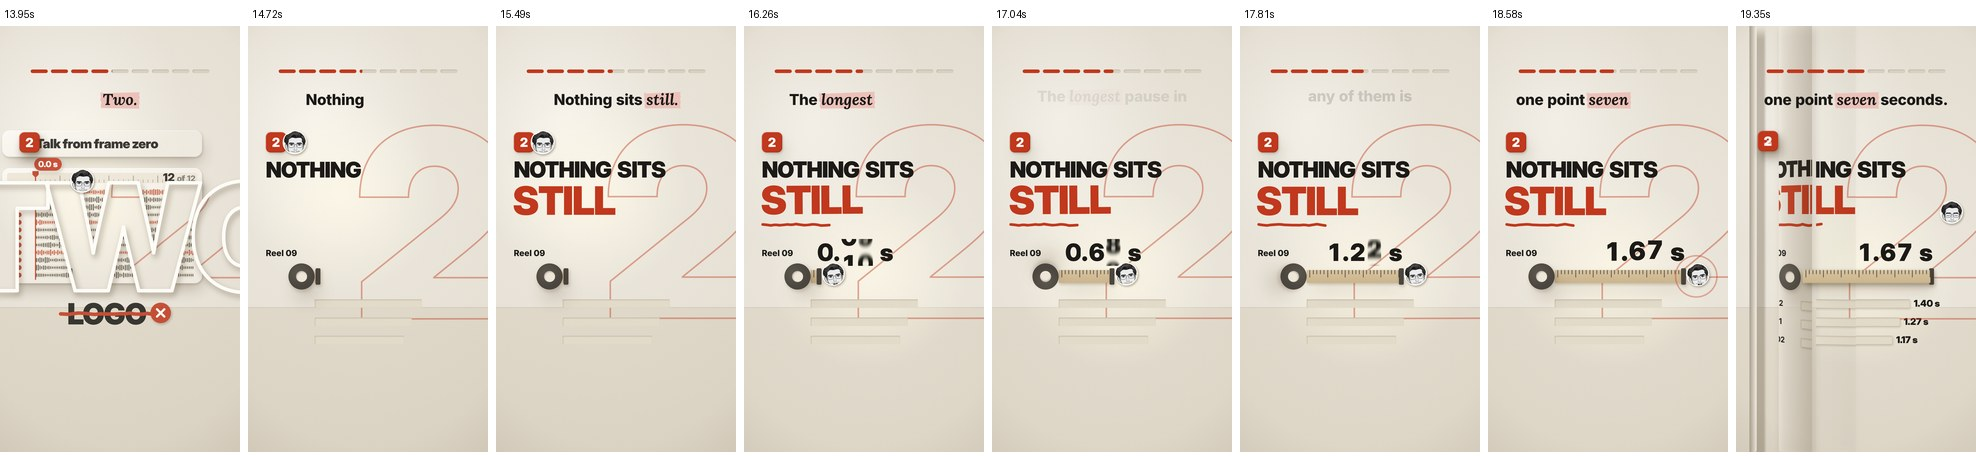
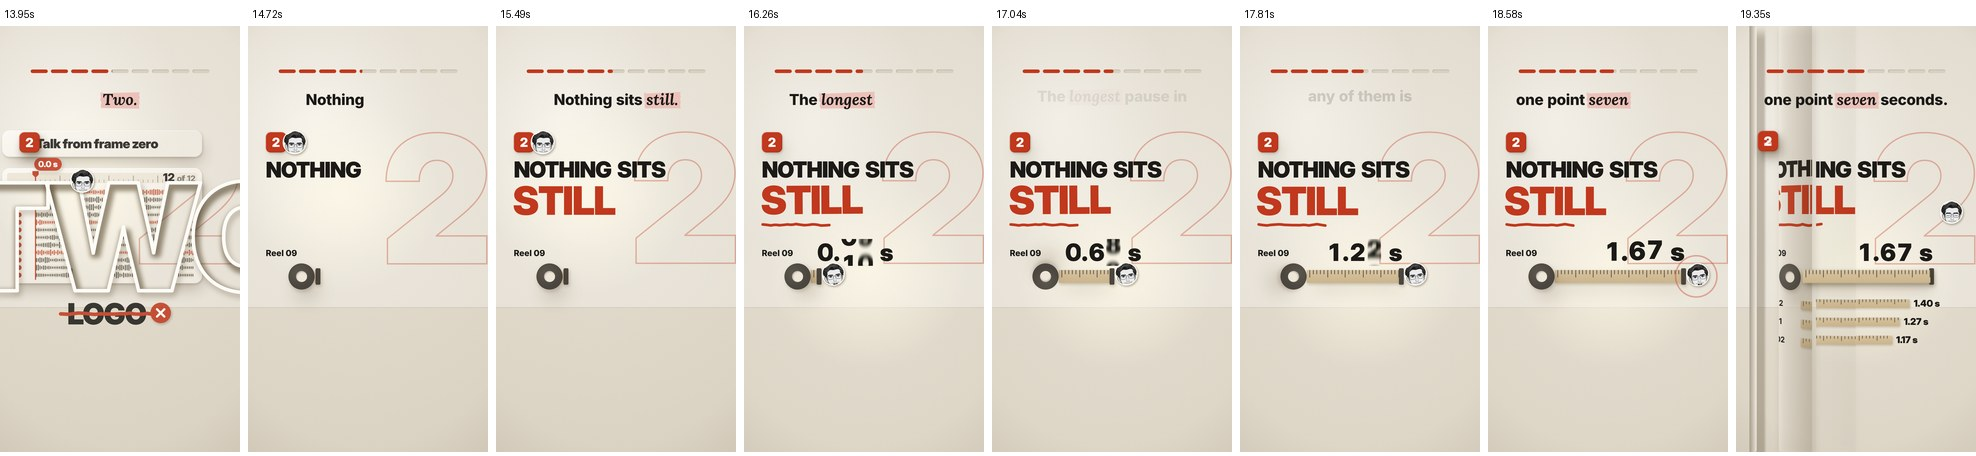
Motion pack: no container waits empty (tape grooves removed, the comment field pops in when typed)
Claude-Session: https://claude.ai/code/session_01Eh7A8fmmnjdrmEmc7wVGjB

diff --git a/studio/packs/motion/scenes-b.js b/studio/packs/motion/scenes-b.js
@@ -56,11 +56,9 @@ export const SCENES = {
       cam.append(l, t2, v);
       return { els: [l, t2, v], path: t2.querySelector('path'), w: len(b.v), seed: 50 + i };
     });
-    // behind everything: the chapter number drawn as a giant pencil outline that boils on twos,
-    // and the empty grooves the shorter tapes will drop into (the scene is never an empty stage)
+    // behind everything: the chapter number drawn as a giant pencil outline that boils on twos
     const big = h('div', abs(p.bigX || 600, p.bigY || 380, 600, 900, `font:900 ${p.bigSize || 800}px/1 ${DISPLAY};color:transparent;-webkit-text-stroke:6px rgba(194,56,29,.34);white-space:nowrap;pointer-events:none`), String(p.n || 2));
-    const grooves = bars.slice(1).map((b, i) => h('div', abs(TX, HY + 132 + i * 82, len(b.v), 38, 'border-radius:4px;background:#e4dccb;box-shadow:inset 2px 3px 5px rgba(70,52,25,.22)')));
-    cam.prepend(big, ...grooves);              // at the back, under the tapes that drop into them
+    cam.prepend(big);
     const ul = pencilLine(300, { seed: 44, width: 12 });
     ul.el.style.left = '84px'; ul.el.style.top = `${(p.headY || 478) + 404}px`;
     cam.append(tl, line1, last, ul.el, lab, tape, tab, caseEl, nbox);
@@ -77,7 +75,6 @@ export const SCENES = {
         tl.style.transform = `scale(${(1 + 0.15 * pulse(t, Math.max(twoAt, fr(12)), fr(2), fr(6))).toFixed(4)})`;
         const bj = jit[(b + 1) % 3];
         big.style.transform = `translate(${(bj[0] * 0.6).toFixed(1)}px,${(bj[1] * 0.6).toFixed(1)}px) rotate(${(bj[2] * 0.5).toFixed(2)}deg)`;
-        grooves.forEach((g, i) => { g.style.opacity = outCubic(prog(t, fr(2 + 2 * i), fr(8))).toFixed(3); });
         w1.forEach((el, i) => { const s = slam(t, wAt[i], { from: 1.7, crash: 2, settle: 5 }); el.style.opacity = s.o; el.style.transform = `scale(${s.s.toFixed(4)})`; });
         const s = slam(t, stillAt, { from: 1.5, crash: 3, settle: 6 }), j = jit[b], boil = t > slamHit(stillAt) + fr(6);
         last.style.opacity = s.o;
@@ -287,6 +284,9 @@ export const SCENES = {
           built[0].c.style.transform += ` scale(${(1 + 0.03 * outCubic(prog(t, winAt, fr(8)))).toFixed(4)})`;
         }
         ty.update(t - typeAt);
+        const fp = prog(t, typeAt - fr(4), fr(5));          // the field appears only when it is about to be typed in
+        field.style.opacity = clamp(fp * 3).toFixed(3);
+        field.style.transform = `scale(${fp <= 0 ? 0.6 : outBack(fp, 2).toFixed(4)})`;
         const on = t >= followAt;
         fb.textContent = on ? 'Following' : 'Follow';
         fb.style.background = on ? 'transparent' : 'var(--accent)'; fb.style.color = on ? P.ink : '#fffdf8';

diff --git a/collection/recipes/pack-motion.md b/collection/recipes/pack-motion.md
@@ -21,9 +21,9 @@ The one idea under all of it: **carry, not replace.** At every scene change some
 | G06 | `countSlam` (hero) | The giant counter arrives running (carried in digit by digit), pulls back and lands on the claim with a bounce through its digits while the camera pushes in and three layers of film strip whip past and slow down; then the word lands with a tracking settle and its full stop pops in. | Digit cards 158 x 228. 3-frame pull-back (-5%), +7% overshoot over 8 frames, each digit's bounce 12% later. Push-in +8% over 12 frames (outCubic) plus 1% drift. Strips: far 64 px (32%, 1.6 px blur, 70 px/s), mid 96 px (62%, -150 px/s), near 196 px (330 px/s, blurred); landing kick x7 decaying e^(-3.2 t); depth scale 0.3 + 1.6 x depth. Word: tracking 0.38 em to -0.02 em and scale 1.18 to 1 in 9 frames; the 36 px dot 5 frames later (outBack 3, 6 frames). | The one hero number of a reel. | M01, M02, M10, Disney multiplane, Gurney atmospheric perspective | `g06-count-slam.jpg` |
 | G07 | `chapterList` | The number arrives as a badge (the dot of the scene before), the heading closes up with a tracking settle, rows are uncovered left to right, the cursor taps the first, which is carried into the next scene as its header while the others drop away. | Badge 156 px; number slam from 2.4x. Rows 880 x 150, 26 px apart, mask reveal 8 frames each, 3 frames apart, sliding 36 px; tiles pop 3 frames after their row. Tap: 6 px outline over 6 frames, 3% press. Exit: rows fall 320 px with a 6-7 degree turn, staggered. | "Here are N things" before a numbered list. | L06 step row, S01, P03 numbered walk-through | `g07-chapter-list.jpg` |
 | G08 | `trackTimeline` | A rebuilt editor timeline, one track per reel: the dots light as "twelve" is spoken, every waveform draws from frame 0 on the beat, the tally counts to the claim, the camera pushes in on the playhead; then the rejected openings slam in below and are struck, the second swapped into the first one's place. | Card 900 x 520, 12 tracks of 26 px on a 34 px pitch. Dots 1 frame apart; waveforms 2 frames apart, 12 frames each; tally pop 18%; push-in 8% over 12 frames, out over 11. Rejected words slam from 1.6x; pencil strike 16 px in 6 frames on the next word; cross 4 frames later; the first lifts 120 px as the second takes its place. | "All of them do X from the start; none do Y." | U14 audio timeline, U22 live counter, M07 rejected card, M10 | `g08-track-timeline.jpg` |
-| G09 | `tapeMeasure` | A number that counts and becomes a bar: the heading lands word by word and its last word cannot sit still; the cursor pulls a paper tape from its case while the number riding its end counts at a steady speed and lands; the other measurements drop in as shorter tapes. Drawn on twos (G13). | Heading words slam from 1.7x (2-frame crash); the last word from 1.5x, then boils (3.5 px, 0.8 degrees, three drawings). Giant outlined chapter number 1180 px behind, boiling. Tape 58 px, up to 620 px, linear count beat to beat; case turns 220 degrees per unit; landing pulse +16% and the number turns accent. Others drop 70 px, 4 frames apart (outBack 1.6), into grooves present from frame 2. | A longest, biggest or fastest measured value with three for comparison. | M01, M03 bar race, N10 pencil, M24 stepped | `g09-tape-measure.jpg` |
+| G09 | `tapeMeasure` | A number that counts and becomes a bar: the heading lands word by word and its last word cannot sit still; the cursor pulls a paper tape from its case while the number riding its end counts at a steady speed and lands; the other measurements drop in as shorter tapes. Drawn on twos (G13). | Heading words slam from 1.7x (2-frame crash); the last word from 1.5x, then boils (3.5 px, 0.8 degrees, three drawings). Giant outlined chapter number 1180 px behind, boiling. Tape 58 px, up to 620 px, linear count beat to beat; case turns 220 degrees per unit; landing pulse +16% and the number turns accent. Others drop 70 px, 4 frames apart (outBack 1.6). | A longest, biggest or fastest measured value with three for comparison. | M01, M03 bar race, N10 pencil, M24 stepped | `g09-tape-measure.jpg` |
 | G10 | `soundLane` | A two-lane editor, picture above and sound below. The cursor paints a sound under every move; the answer slams in over it, then shrinks into a corner label; half the sounds pop off, the count lands, and the camera pushes in on one pair to show the sound starting before the picture. | Marks 54 x 92 at 74 px pitch, 1 frame apart; sounds painted 1.5 frames apart. Answer 260 px from 1.6x, 3-frame crash, 7-frame settle; to the corner in 9 frames at 39%. Removed sounds hop 50 px, 2 frames apart; count 0 to 103 in 14 frames. Push-in 60% in 12 frames, out in 10 at least 16 frames before the end. | Myth then measurement ("every? No. Half."). | U14, M10, U22, M16 magnifier, D04 question answered at once | `g10-sound-lane.jpg` |
-| G11 | `tallyDots` | Twelve dots, carried in, are sorted into the rows they belong to on the beats; each row's count rolls as its dots land and the row acts out its ending; the winning row is ticked last. | Dots 46 px at 72 px pitch; flights of 10 frames, 2 frames apart, arc bend 0.25, landing at 38 px; count pop 20%. Typed word 12 letters a second; Follow to Following with a 10% press; a line that stops at 98% with a stop bar; winner: 6 px outline, +3%, tick badge; others dim 45%. | A split of N things into groups (9, 1, 2 of 12). | M20, U11 checklist, M23 follow tap, L05 dots | `g11-tally-dots.jpg` |
+| G11 | `tallyDots` | Twelve dots, carried in, are sorted into the rows they belong to on the beats; each row's count rolls as its dots land and the row acts out its ending; the winning row is ticked last. | Dots 46 px at 72 px pitch; flights of 10 frames, 2 frames apart, arc bend 0.25, landing at 38 px; count pop 20%. Typed word 12 letters a second in a field that pops in 4 frames before it; Follow to Following with a 10% press; a line that stops at 98% with a stop bar; winner: 6 px outline, +3%, tick badge; others dim 45%. | A split of N things into groups (9, 1, 2 of 12). | M20, U11 checklist, M23 follow tap, L05 dots | `g11-tally-dots.jpg` |
 | G12 | `saveTap` | The large avatar rises back, the claim slams in word by word, the Save button is pressed on the word and becomes the next scene's comment field (`data-morph="pill"`). | Bust 470 px rising 120 px (outBack 1.3, 10 frames); words from 2.2x and 1.6x; button 420 x 112 rises 60 px; press 8%, accent fill, label swap, bookmark fill, 260 px ripple in 9 frames; avatar tilts 4 degrees. | "Save this" before the outro. | A06, M10, M06 click ripple | `g12-save-tap.jpg` |
 
 ## Effects and layer
